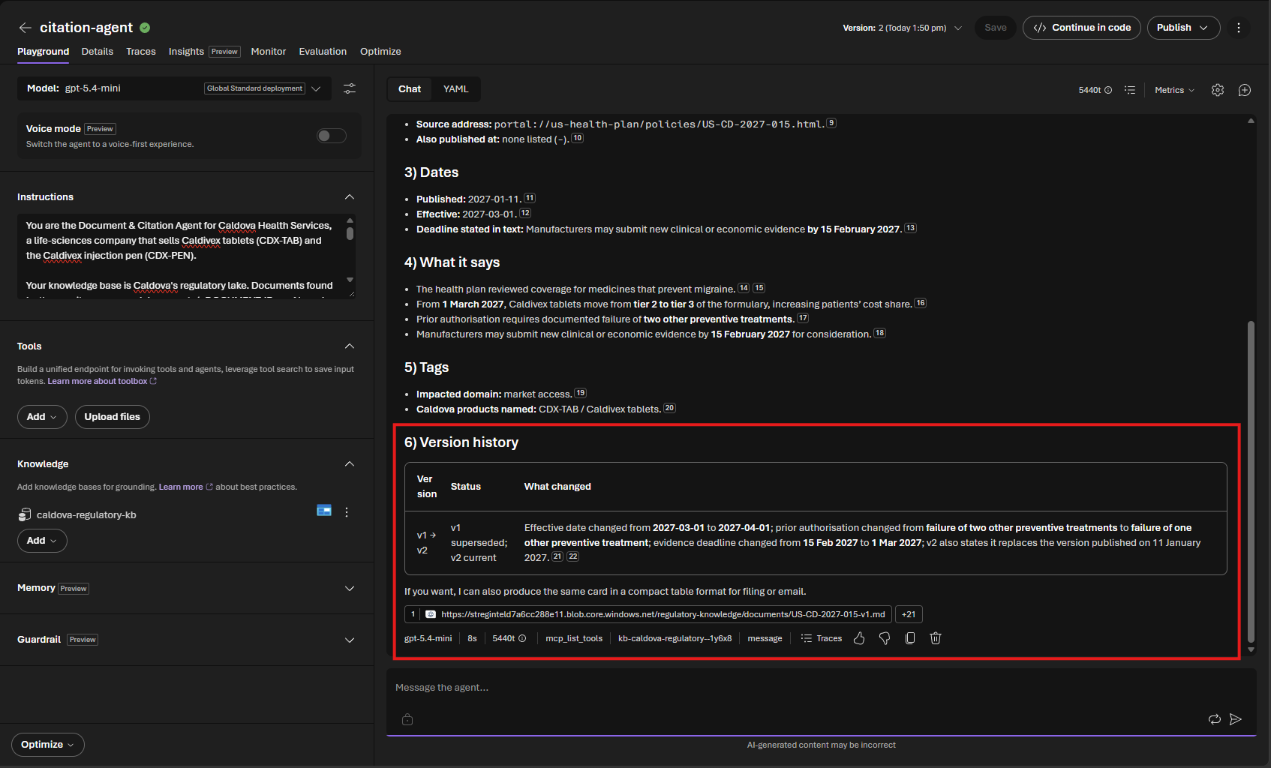
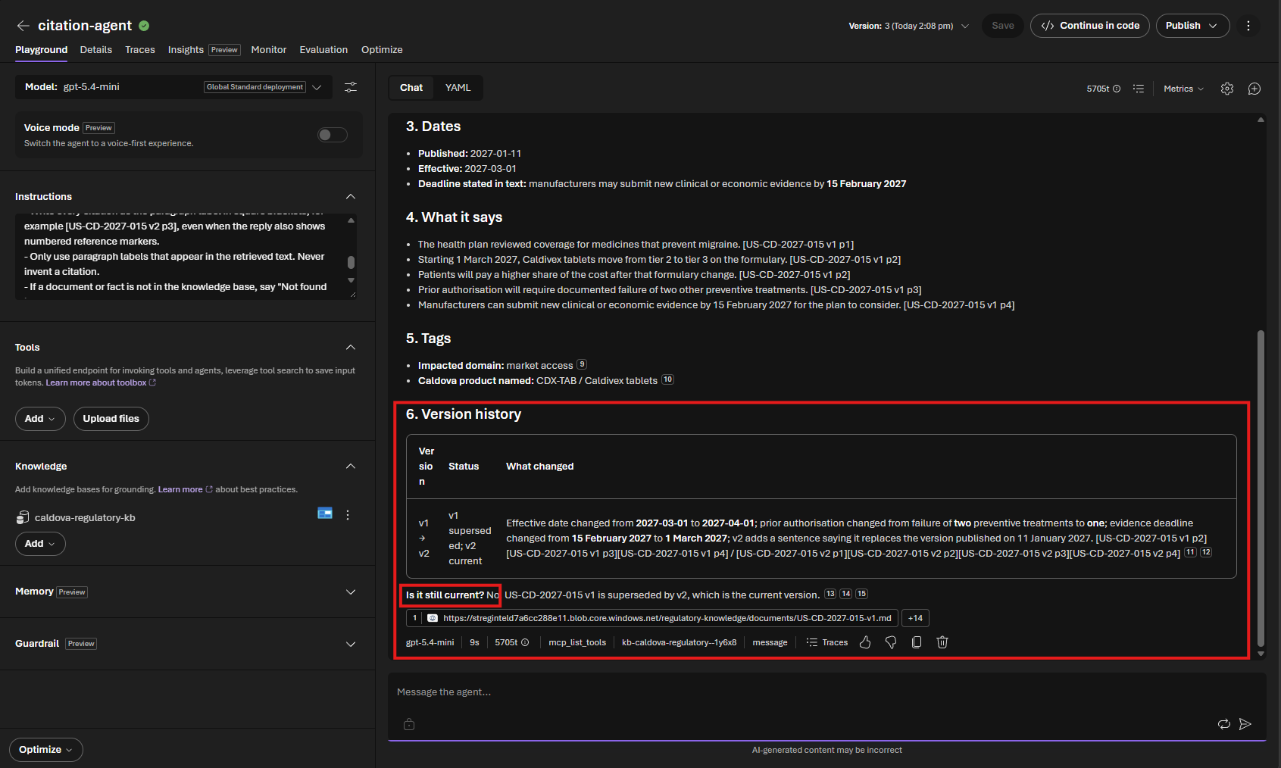
Challenge 2: version history screenshot with paragraph labels

diff --git a/03-Azure/01-04-AI/11_Healthcare_Regulatory_Intelligence/challenges/challenge-02.md b/03-Azure/01-04-AI/11_Healthcare_Regulatory_Intelligence/challenges/challenge-02.md
@@ -122,7 +122,7 @@ The row under each answer lists the calls the agent made, for example the knowle
 
    The agent should report that v1 is **superseded** by v2. Its version history should show that the effective date moved from 1 March to 1 April 2027, prior authorisation now needs **one** failed treatment rather than two, and the evidence deadline moved to 1 March 2027.
 
-![Version history for US-CD-2027-015: v1 superseded, v2 current, with the three changes](../images/challenge-02-version-history.png)
+![Citation card for US-CD-2027-015 v1: every statement ends with its paragraph label, the version history cites both versions, and v1 is no longer current](../images/challenge-02-version-history.png)
 
    Check that every statement in *What it says* ends with a paragraph label such as `[US-CD-2027-015 v1 p2]`, not only with a numbered marker. If the labels are missing, the agent is not following its rules; ask again in a new chat.
 
